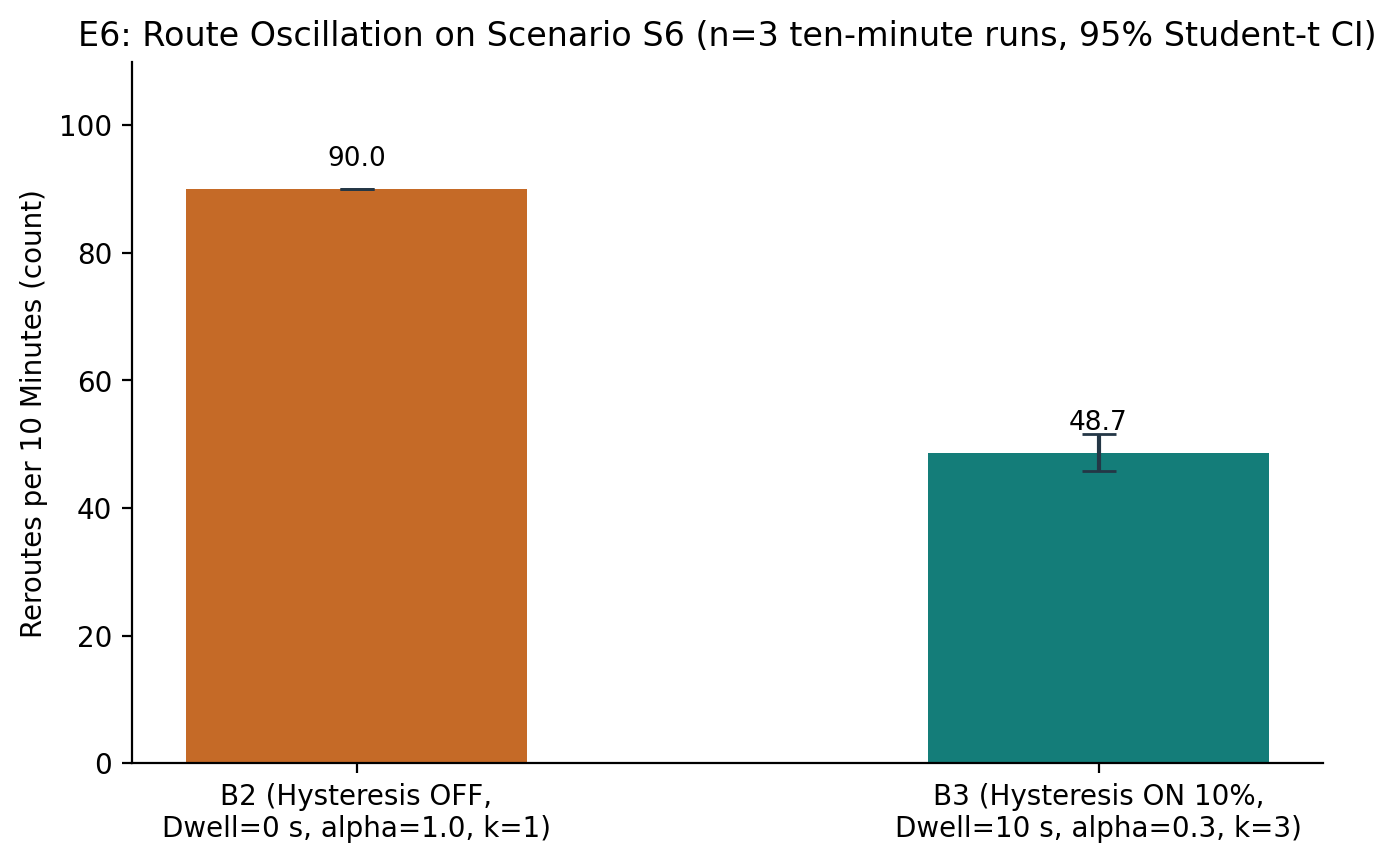
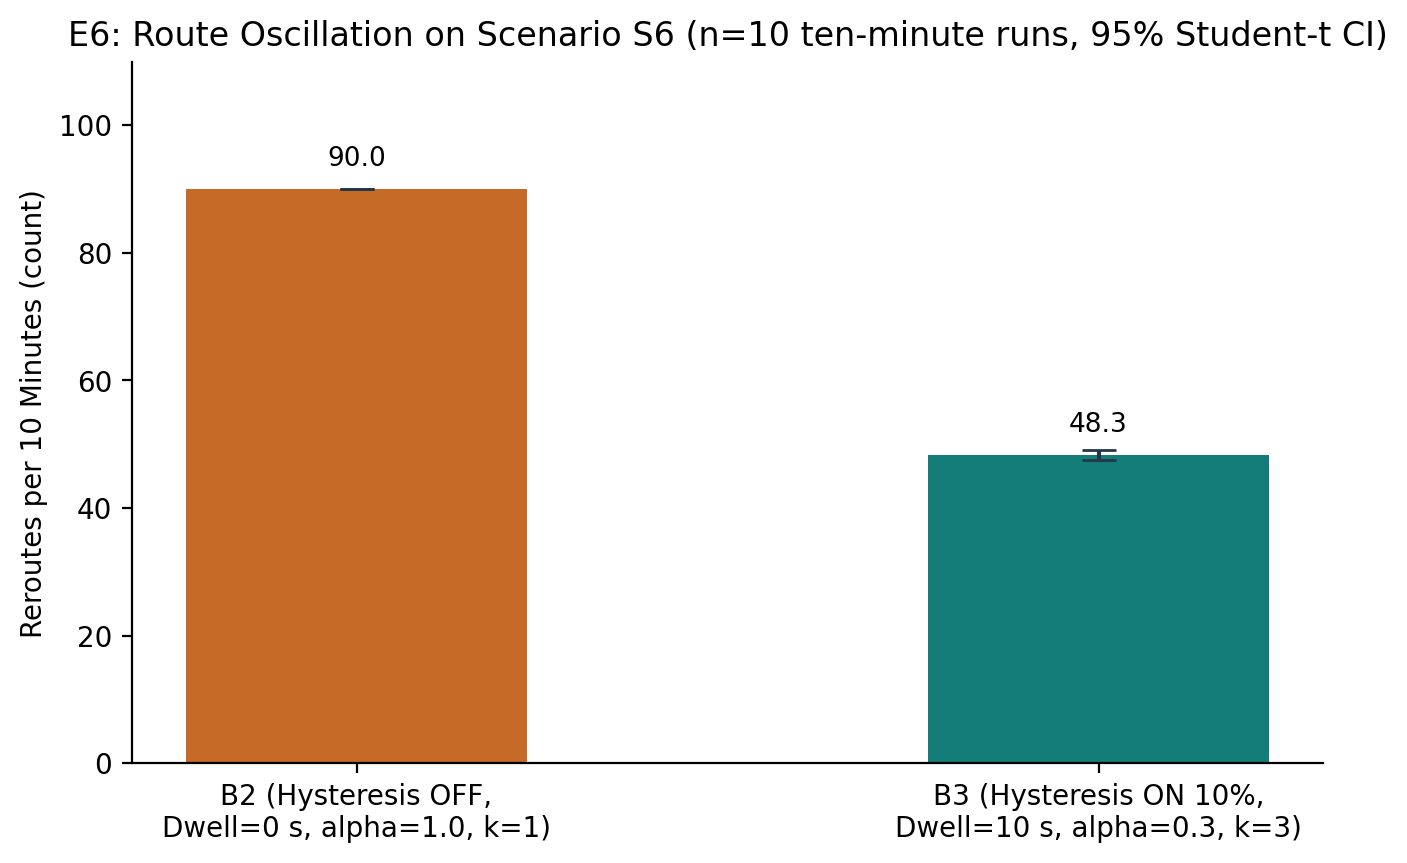
chore(eval): isolate ST-10 smoke and seal regenerated artifacts

diff --git a/src/common/db.py b/src/common/db.py
@@ -15,6 +15,7 @@ case where a dependency-injected connection crosses the threadpool boundary.
 from __future__ import annotations
 
 import json
+import os
 import sqlite3
 import time
 from pathlib import Path
@@ -122,7 +123,7 @@ def connect(path: Optional[Path] = None) -> sqlite3.Connection:
     stops a 1 Hz writer from raising "database is locked" the moment a human
     refreshes a page.
     """
-    db_path = Path(path) if path is not None else DEFAULT_DB_PATH
+    db_path = Path(path) if path is not None else Path(os.environ.get("TEAM16_DB_PATH", str(DEFAULT_DB_PATH)))
     if str(db_path) != ":memory:":
         db_path.parent.mkdir(parents=True, exist_ok=True)
     # check_same_thread=False because FastAPI dispatches sync endpoints to a

diff --git a/experiments/verify_summaries.py b/experiments/verify_summaries.py
@@ -13,7 +13,6 @@ import csv
 import itertools
 import json
 import math
-import re
 import statistics
 import sys
 from collections import defaultdict
